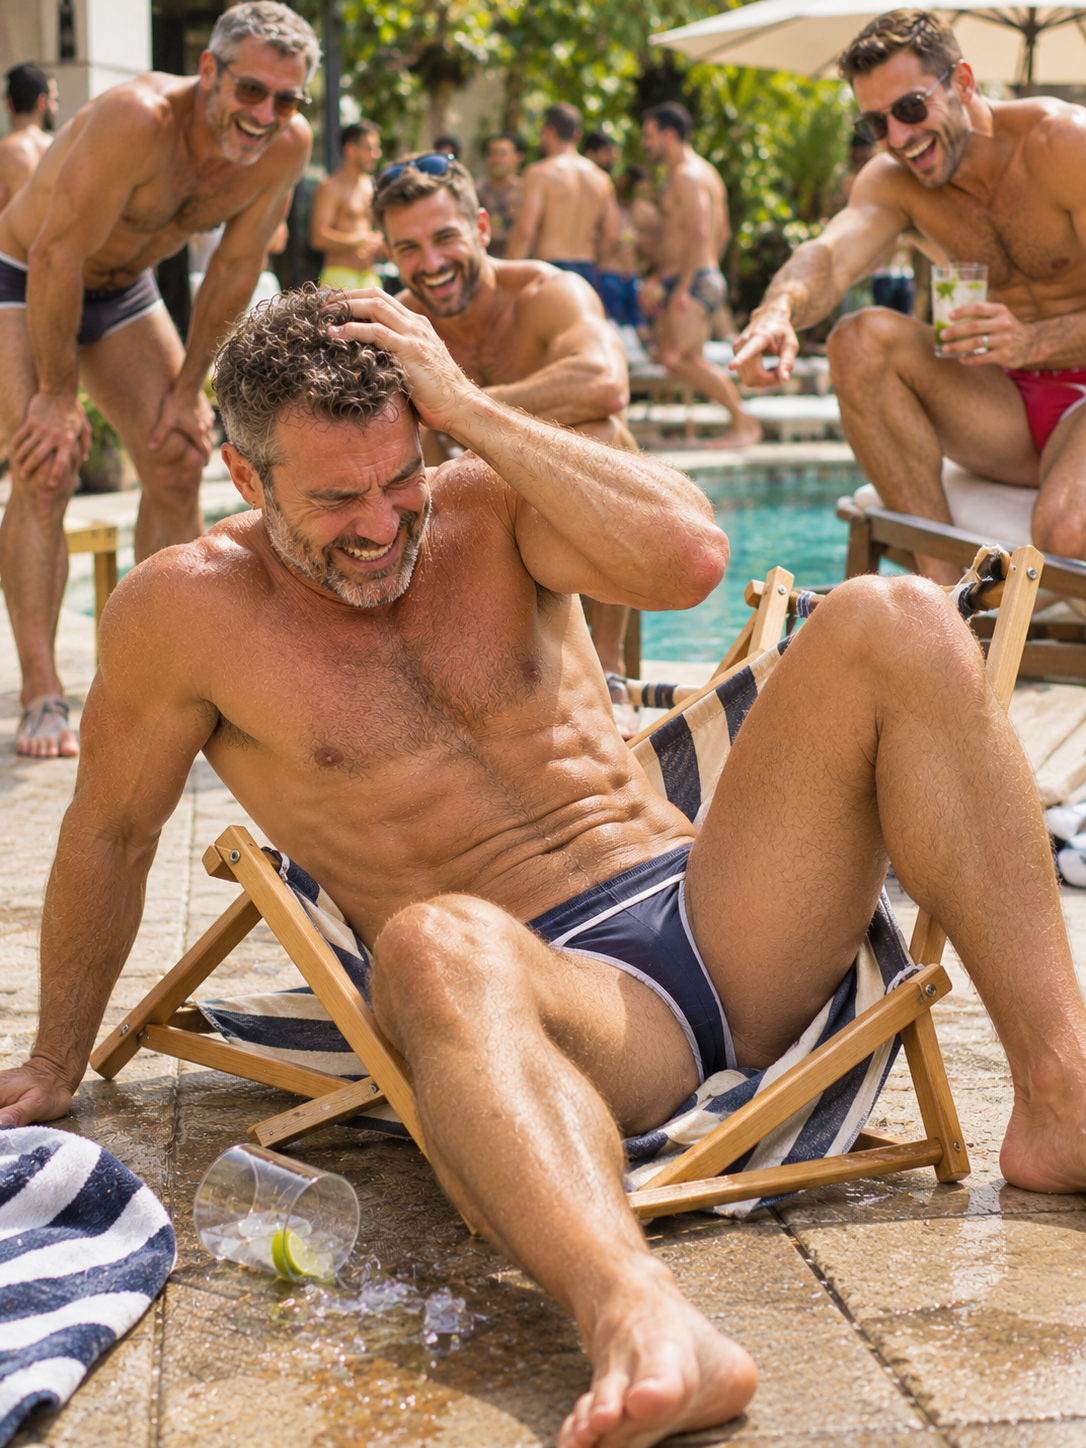
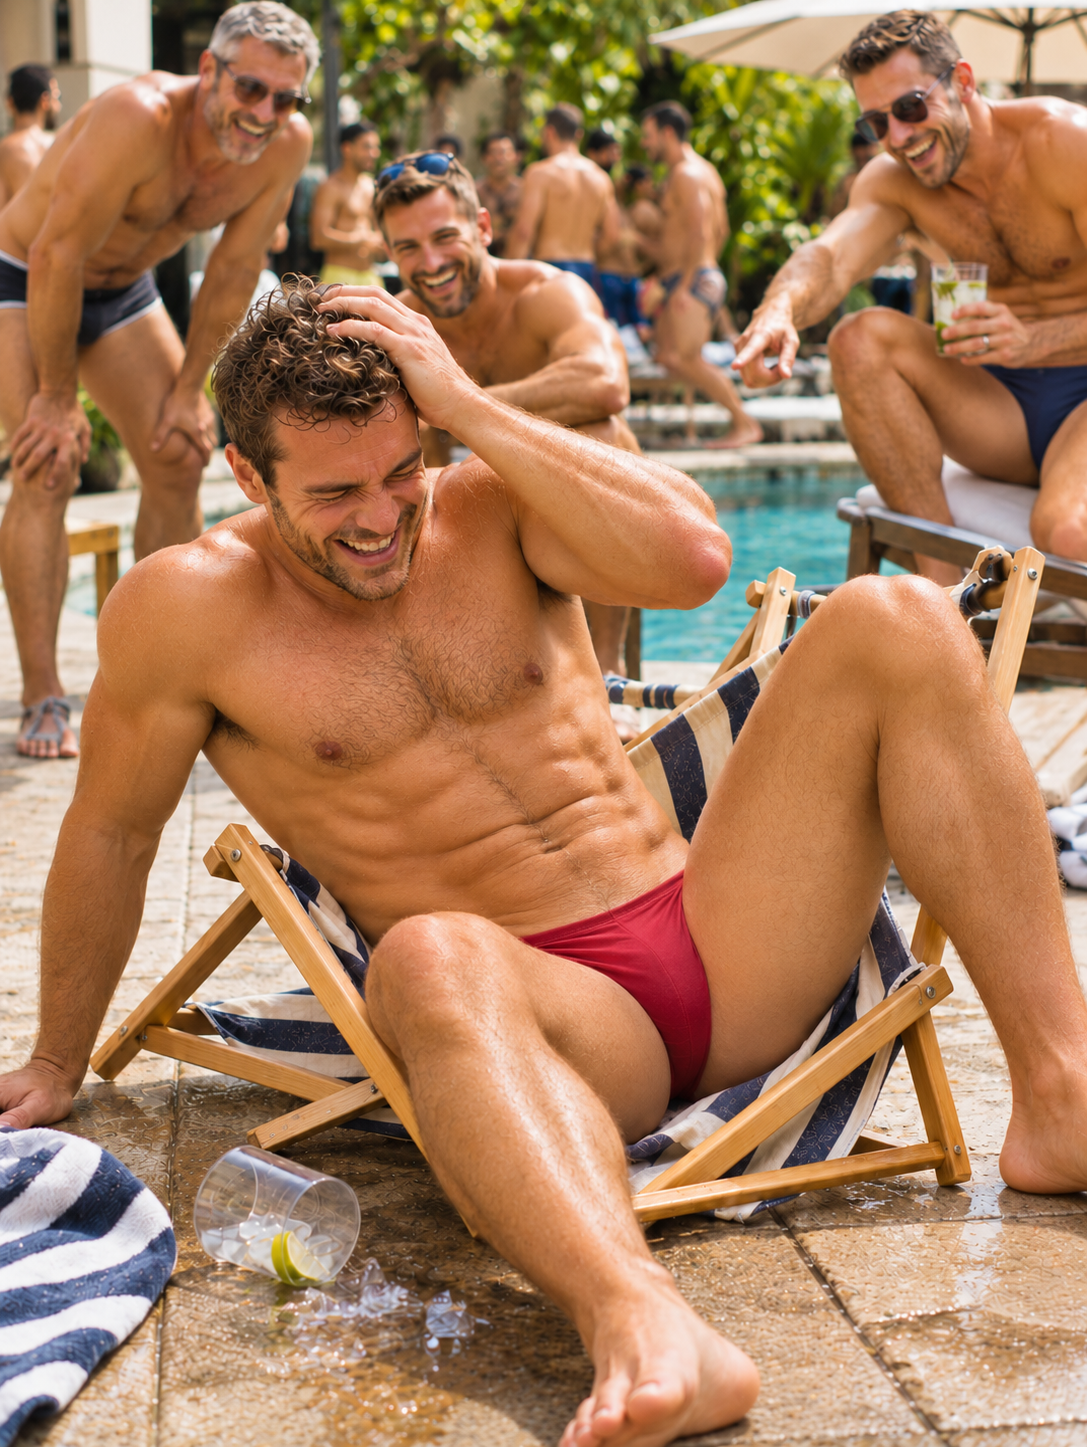
Update the Shit Happens poolside chair image

diff --git a/SOURCES.md b/SOURCES.md
@@ -153,5 +153,5 @@ The renamed copies in `Assets` and the asset catalogue preserve the original PNG
 | 5 | Matching Hibiscus Shirts at the Garden Party | `shit-happens-matching-shirts` |
 | 6 | Coffee Spill at the Outdoor Café | `shit-happens-coffee-spill` |
 | 7 | Muddy Trail Companions and a Happy Dog | `shit-happens-muddy-trail` |
-| 8 | Poolside Chair Mishap | `shit-happens-poolside-chair` |
+| 8 | Sunlit Poolside Laughter and Swimwear | `shit-happens-poolside-chair` |
 | 9 | Sheepish Downward Dog in the Park | `shit-happens-park-yoga` |
